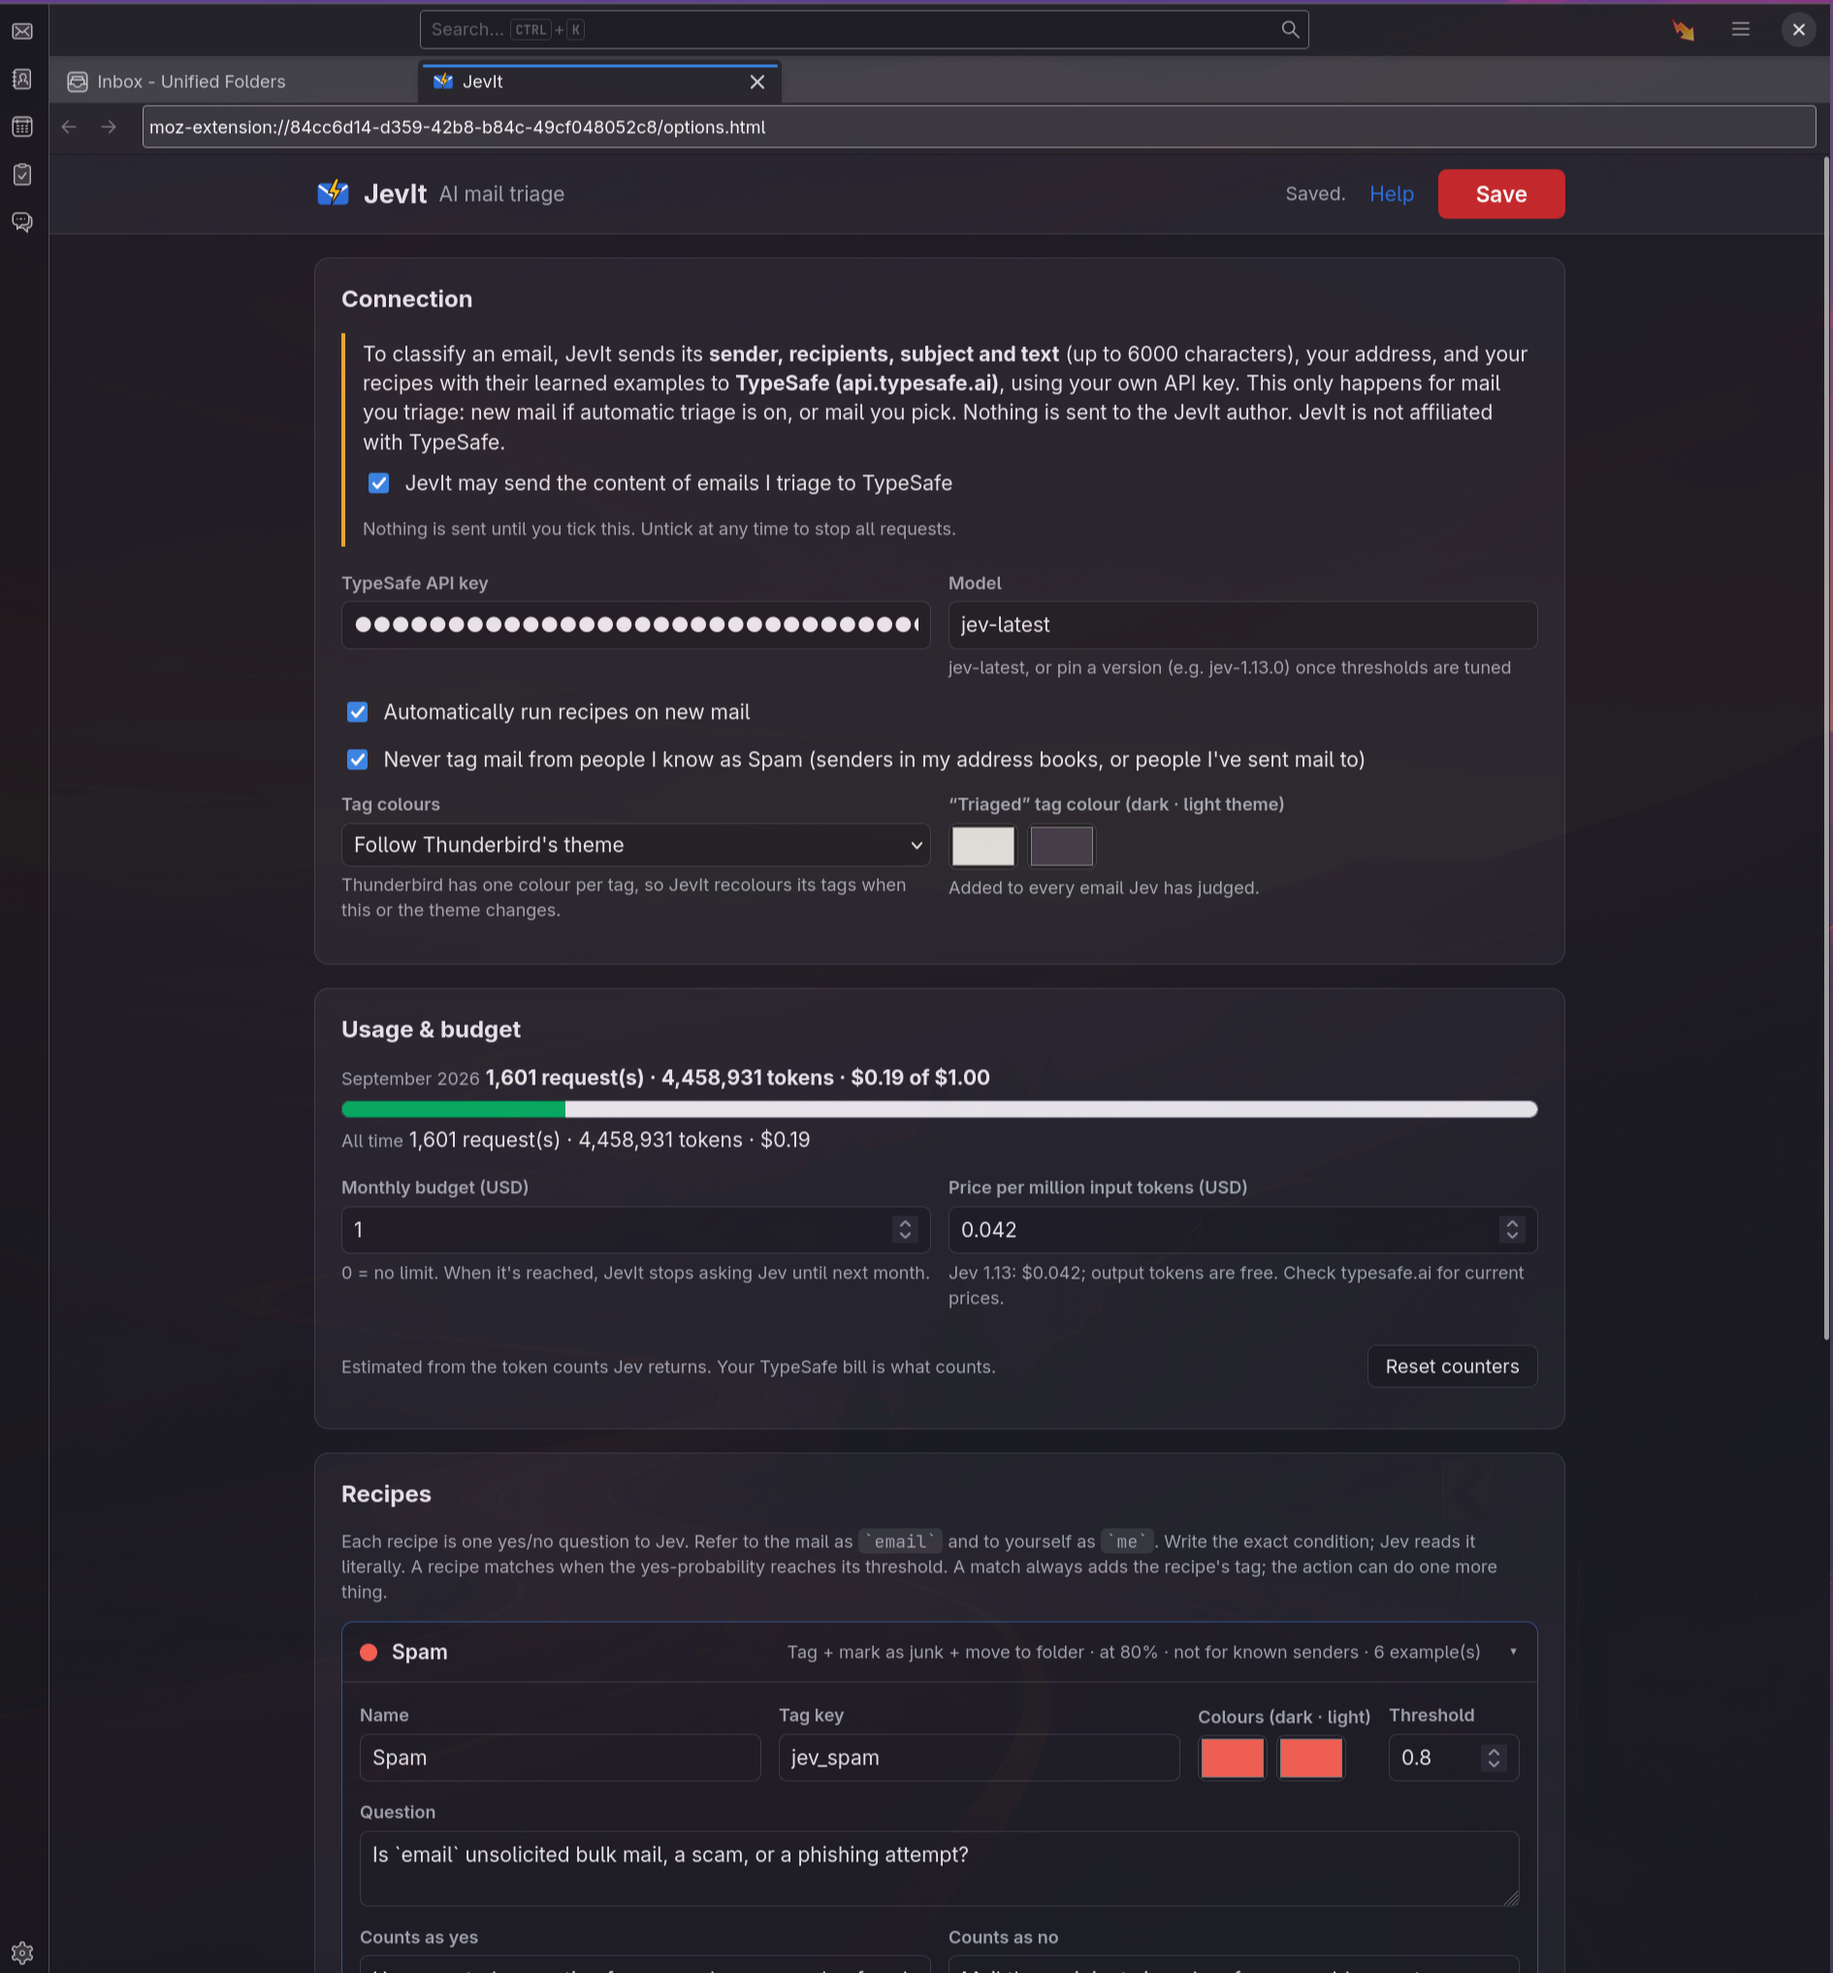
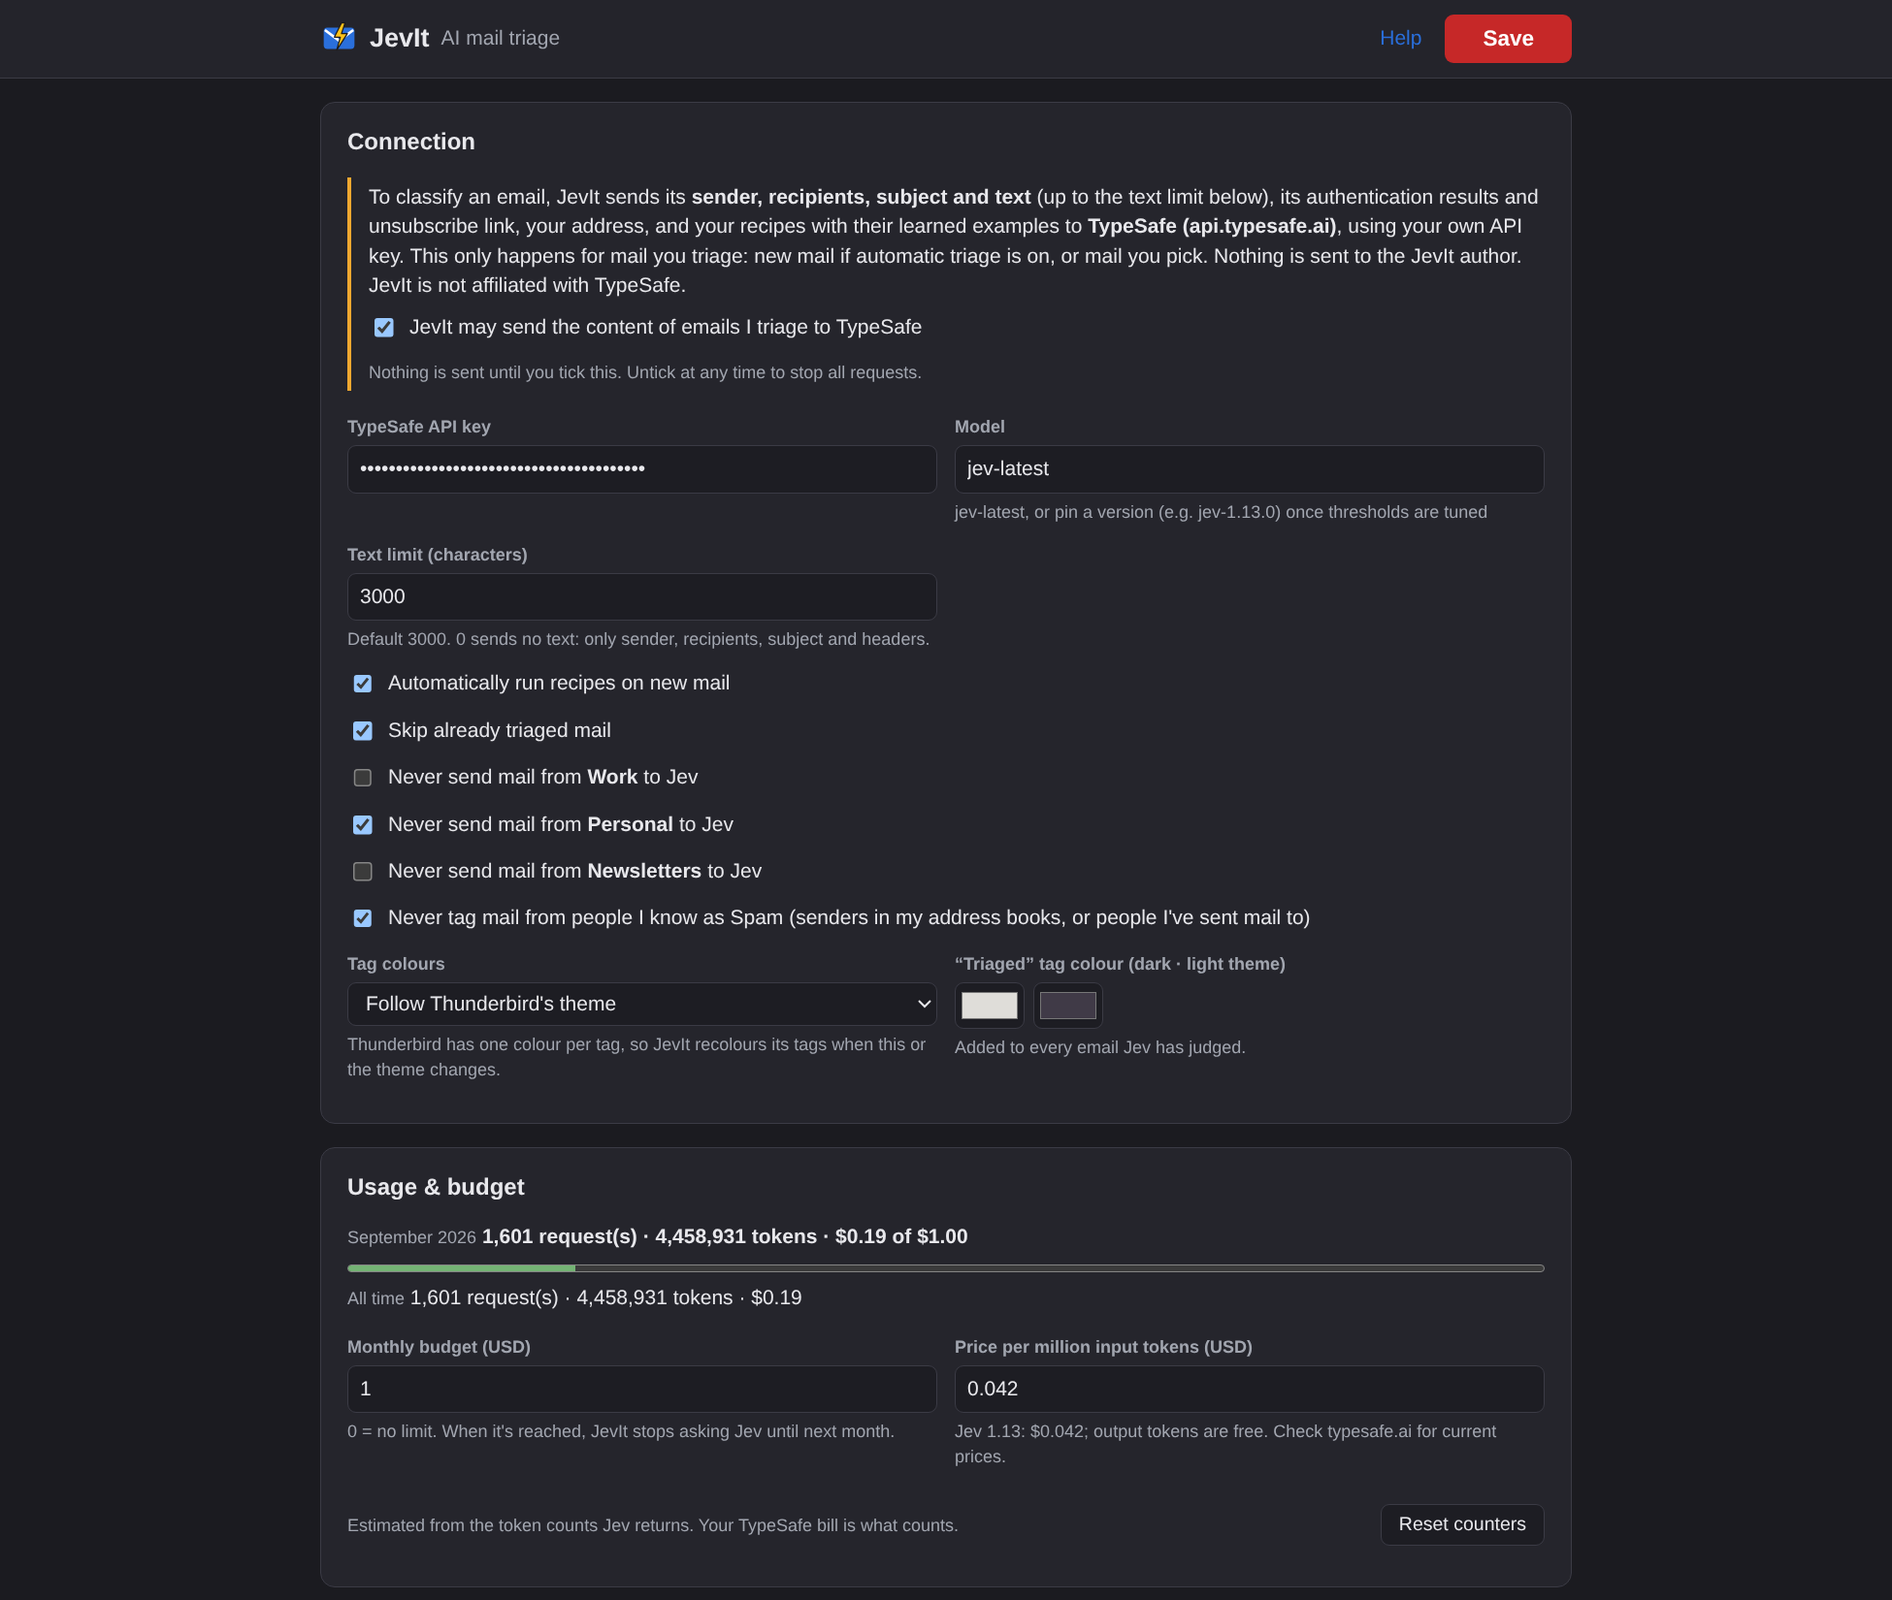
Fresh screenshots; fix spacing in account exclusion labels
Screenshots are rendered from the manager page with made-up accounts.

diff --git a/options.js b/options.js
@@ -42,7 +42,7 @@ function render() {
   $("#excludedAccounts").replaceChildren(...Object.entries(accounts).map(([id, name]) => {
     const label = document.createElement("label");
     label.className = "check";
-    label.innerHTML = `<input type="checkbox"> Never send mail from <b></b> to Jev`;
+    label.innerHTML = `<input type="checkbox"> <span>Never send mail from <b></b> to Jev</span>`;
     label.querySelector("b").textContent = name;
     Object.assign(label.querySelector("input"), { value: id, checked: s.excludedAccounts.includes(id) });
     return label;
